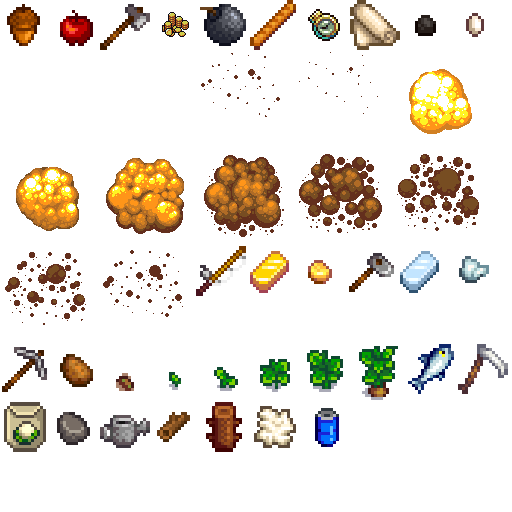
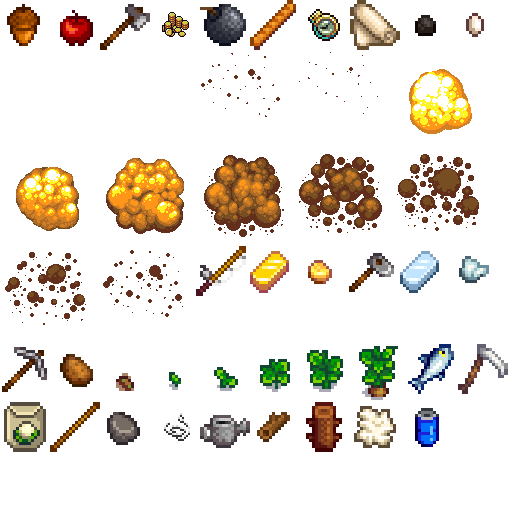
Added some new items and crafting recipes.

Changed region(s): [[0.0938, 0.7812, 0.7812, 0.9062], [0.8125, 0.7812, 0.875, 0.875]]

diff --git a/core/src/com/binarybrains/sprout/crafting/Crafting.java b/core/src/com/binarybrains/sprout/crafting/Crafting.java
@@ -1,6 +1,5 @@
 package com.binarybrains.sprout.crafting;
 
-import com.badlogic.gdx.Gdx;
 import com.binarybrains.sprout.entity.Inventory;
 import com.binarybrains.sprout.entity.Player;
 import com.binarybrains.sprout.item.Item;
@@ -23,12 +22,14 @@ public class Crafting {
 
     static {
         try {
-            workbenchRecipes.add(new ToolRecipe(new Hoe(), 0).addCost(Resource.stone, 1).addCost(Resource.wood, 1));
-            //workbenchRecipes.add(new ToolRecipe(new Hoe(), 2).addCost(Resource.goldIngot, 10).addCost(Resource.wood, 3));
-            workbenchRecipes.add(new ToolRecipe(new Axe(), 0).addCost(Resource.stone, 1).addCost(Resource.wood, 1));
-            workbenchRecipes.add(new ToolRecipe(new PickAxe(), 0).addCost(Resource.stone, 2).addCost(Resource.wood, 1));
+            workbenchRecipes.add(new ResourceRecipe(Resource.stick).addCost(Resource.wood, 1));
+            workbenchRecipes.add(new ToolRecipe(new Hoe(), 0).addCost(Resource.stone, 1).addCost(Resource.stick, 1));
+            workbenchRecipes.add(new ToolRecipe(new Axe(), 0).addCost(Resource.stone, 1).addCost(Resource.stick, 1));
+            workbenchRecipes.add(new ToolRecipe(new PickAxe(), 0).addCost(Resource.stone, 2).addCost(Resource.stick, 1));
             workbenchRecipes.add(new ToolRecipe(new WateringCan(), 0).addCost(Resource.ironBar, 5));
-            workbenchRecipes.add(new ToolRecipe(new Scythe(), 0).addCost(Resource.ironBar, 2).addCost(Resource.wood, 2));
+            workbenchRecipes.add(new ToolRecipe(new Scythe(), 0).addCost(Resource.ironBar, 2).addCost(Resource.stick, 2));
+            workbenchRecipes.add(new ToolRecipe(new FishingPole(), 0).addCost(Resource.ironBar, 1).addCost(Resource.stick, 1).addCost(Resource.string, 1));
+
 
             workbenchRecipes.add(new ResourceRecipe(Resource.cloth).addCost(Resource.wool, 3));
 
@@ -39,6 +40,7 @@ public class Crafting {
             workbenchRecipes.add(new ResourceRecipe(Resource.woodFence).addCost(Resource.wood, 1));
 
             //furnaceRecipes.add(new ResourceRecipe(Resource.glass).addCost(Resource.sand, 4).addCost(Resource.coal, 1));
+
 
 
         } catch (Exception e) {

diff --git a/core/src/com/binarybrains/sprout/item/resource/Resource.java b/core/src/com/binarybrains/sprout/item/resource/Resource.java
@@ -6,6 +6,7 @@ public class Resource {
     public static Resource coal = new Resource("Coal", "Combustible black or dark brown rock consisting \nmainly of carbonized plant matter, found mainly in underground \ndeposits and widely used as fuel");
 
     public static Resource wood = new Resource("Wood", "Hard fibrous material that forms the main substance \nof the trunk or branches of a tree or shrub.");
+    public static Resource stick = new Resource("Stick", "A stick made of wood");
     public static Resource stone = new Resource("Stone", "Hard, solid, nonmetallic mineral matter especially \ngood as building material.");
 
     public static Resource ironOre = new Resource("Iron Ore", "Rock from which iron can be profitably extracted.");
@@ -18,6 +19,7 @@ public class Resource {
 
     public static Resource wool = new Resource("Wool", "Wool is the textile fiber obtained from sheep.");
     public static Resource cloth = new Resource("Cloth", "Textile obtained from whool");
+    public static Resource string = new Resource("String", "A nice strong string.");
 
     public static Resource woodFence = new PlantableResource("Wood Fence", "Keep animals contained and the wolf away");
     public static Resource bomb = new PlantableResource("Bomb", "Generates an explosion");

diff --git a/core/src/com/binarybrains/sprout/entity/Player.java b/core/src/com/binarybrains/sprout/entity/Player.java
@@ -62,6 +62,9 @@ public class Player extends Npc implements InputProcessor {
         getInventory().add(new ResourceItem(Resource.ironOre, 40));
         getInventory().add(new ResourceItem(Resource.seeds, 8));
         getInventory().add(new ResourceItem(Resource.wood, 3));
+        getInventory().add(new ResourceItem(Resource.string, 3));
+        getInventory().add(new ResourceItem(Resource.stick, 3));
+
         getInventory().add(new ResourceItem(Resource.coal, 21));
         getInventory().add(new ResourceItem(Resource.stone, 12));
         getInventory().add(new ResourceItem(Resource.goldNugget, 13));
